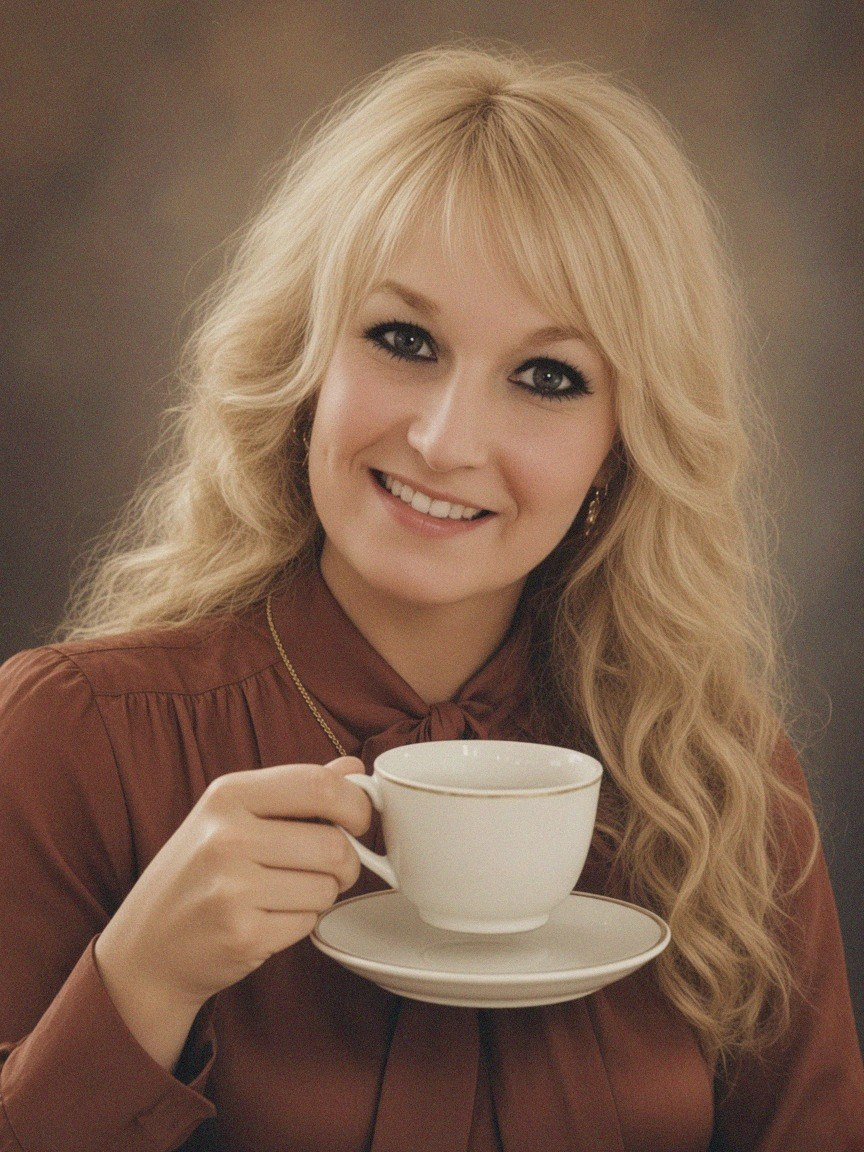
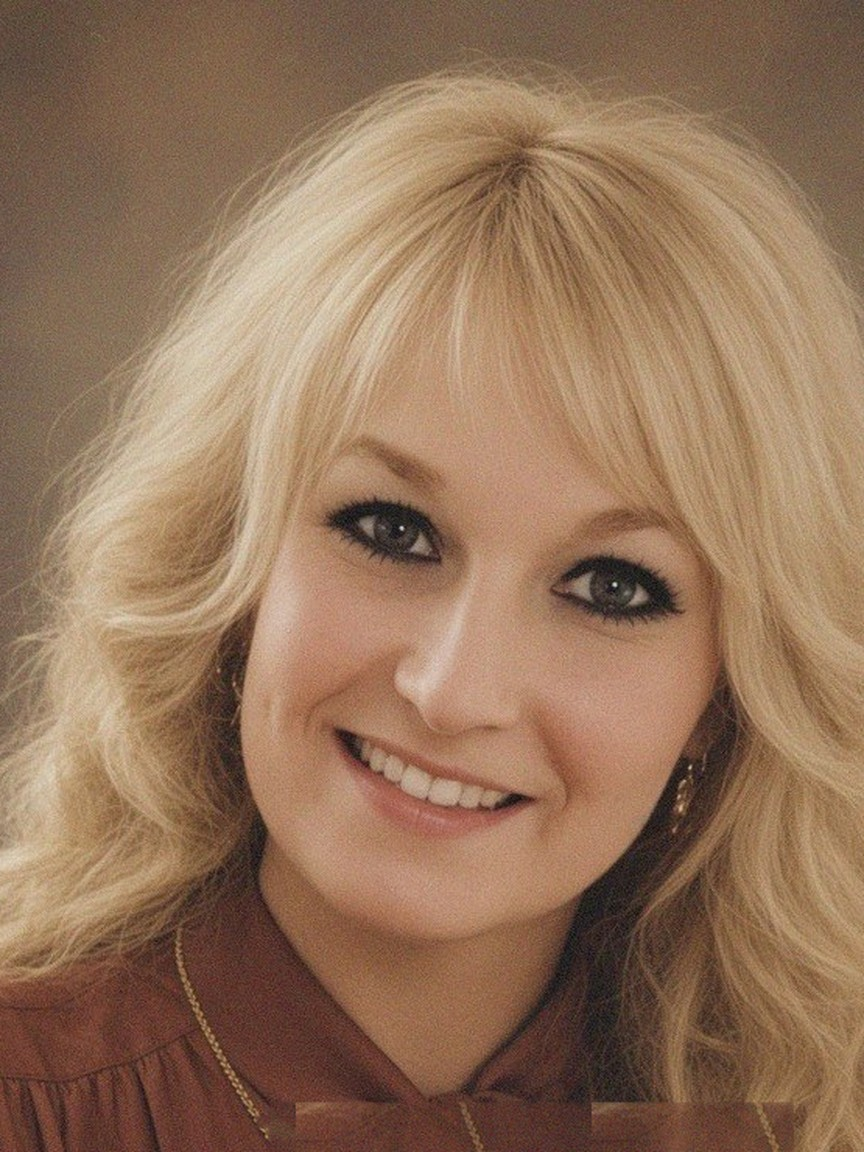
Preview: remove the teacup from Miek van Tiffany's portrait, and mark her unfireable.
The published headshot is a tighter crop of the original (identity lock on face, hair, blouse, necklace and smile). The cup and saucer are out of frame. The previous portrait is kept as v1. She is protected in staff.json and the hiring scripts, and must never be fired, rotated, or shown smoking.

diff --git a/preview-wy4u7thzbj5o/team/index.html b/preview-wy4u7thzbj5o/team/index.html
@@ -65,7 +65,7 @@
     </figure>
 
     <figure class="person" id="miek-van-tiffany">
-      <picture><source srcset="img/hires/miek-van-tiffany.webp" type="image/webp"><img src="img/hires/miek-van-tiffany.jpg" width="864" height="1152" alt="Studio portrait of Miek van Tiffany, Master Stylist: long blonde feathered hair and bangs, a rust pussy-bow blouse, a gold necklace, holding a white teacup and saucer, a bright smile"></picture>
+      <picture><source srcset="img/hires/miek-van-tiffany.webp?v=2" type="image/webp"><img src="img/hires/miek-van-tiffany.jpg?v=2" width="864" height="1152" alt="Studio portrait of Miek van Tiffany, Master Stylist: long blonde feathered hair and bangs, a rust pussy-bow blouse, a gold necklace, a bright smile"></picture>
       <h3>Miek van Tiffany</h3>
       <p class="role">Master Stylist</p>
       <p>The glue of the company, always on top of things. Optimistic about everything, including Mondays — an outlook out of this world.<br>We mean to keep her as long as the stars allow. A massive Beatles fan and music historian.</p>

diff --git a/scripts/add_hire.py b/scripts/add_hire.py
@@ -13,7 +13,9 @@ Usage:
     [--fire-reason 'custom reason if a desk must be freed']
 
 If all junior desks (staff.json maxFriendDesks, default 5) are occupied, the
-longest-serving friend hire is moved to former.json before the new one is seated.
+longest-serving non-protected friend hire is moved to former.json before the new
+one is seated. Protected staff (see staff.json and is_protected()) are never
+fired; if every seated junior is protected, the script exits without seating.
 The filled opening is removed from openings.json. If that would leave none open,
 a new unused title from the pool is posted, so one to three desks stay advertised.
 """
@@ -27,6 +29,7 @@ from sms_hiring import (
     DATA,
     FIRE_REASONS,
     HIRES_DIR,
+    is_protected,
     load_json,
     save_json,
     slugify,
@@ -57,7 +60,16 @@ def main():
 
     fired = None
     if len(hires) >= cap:
-        oldest = min(hires, key=lambda h: h.get("hiredAt") or "9999")
+        candidates = [h for h in hires if not is_protected(h, staff)]
+        if not candidates:
+            sys.exit(
+                "Junior desks are full, and every seated hire is protected "
+                "(unfireable). Refusing to fire a protected member of staff, "
+                "including Miek van Tiffany."
+            )
+        oldest = min(candidates, key=lambda h: h.get("hiredAt") or "9999")
+        if is_protected(oldest, staff):
+            sys.exit("Refusing to fire a protected member of staff, including Miek van Tiffany.")
         hires.remove(oldest)
         reason = args.fire_reason.strip() or FIRE_REASONS[len(former.get("employees") or []) % len(FIRE_REASONS)]
         record = {

diff --git a/scripts/sms_hiring.py b/scripts/sms_hiring.py
@@ -161,6 +161,54 @@ def slugify(name: str) -> str:
     return text or "hire"
 
 
+# Always-on fallback: Miek van Tiffany can never be fired, even if the
+# protected list in staff.json is missing or stale.
+ALWAYS_PROTECTED = frozenset({
+    "miek-van-tiffany",
+    "miek van tiffany",
+})
+
+
+def _protected_keys(staff: dict | None) -> set[str]:
+    keys = set(ALWAYS_PROTECTED)
+    if not staff:
+        return keys
+    for item in staff.get("protected") or []:
+        raw_id = raw_name = ""
+        if isinstance(item, str):
+            raw_name = item
+        elif isinstance(item, dict):
+            raw_id = str(item.get("id") or "").strip()
+            raw_name = str(item.get("name") or "").strip()
+        for raw in (raw_id, raw_name):
+            if not raw:
+                continue
+            keys.add(raw.lower())
+            keys.add(slugify(raw))
+    keys.discard("")
+    keys.discard("hire")
+    return keys
+
+
+def is_protected(hire: dict | None, staff: dict | None = None) -> bool:
+    """True if this hire must never be fired or moved to former.json."""
+    if not hire:
+        return False
+    keys = _protected_keys(staff)
+    candidates: set[str] = set()
+    for raw in (hire.get("id"), hire.get("name")):
+        if not raw:
+            continue
+        raw = str(raw).strip()
+        if not raw:
+            continue
+        candidates.add(raw.lower())
+        slug = slugify(raw)
+        if slug != "hire":
+            candidates.add(slug)
+    return bool(candidates & keys)
+
+
 def tweak_surname(surname: str) -> str:
     if not surname:
         return surname

diff --git a/HIRING.md b/HIRING.md
@@ -8,14 +8,22 @@ The fourteen permanent staff on The Team are not managed here. They live in `pre
 
 - **Letterhead:** 14 permanent staff (plus Frank the company cat).
 - **Junior desks:** 5 friend hires, listed in `preview-wy4u7thzbj5o/data/staff.json` (`maxFriendDesks`).
-- When all five junior desks are occupied, the **longest-serving friend hire** (earliest `hiredAt`) is moved to `preview-wy4u7thzbj5o/data/former.json` with a deadpan reason, and the new hire takes the desk.
+- When all five junior desks are occupied, the **longest-serving non-protected friend hire** (earliest `hiredAt`) is moved to `preview-wy4u7thzbj5o/data/former.json` with a deadpan reason, and the new hire takes the desk. If every seated junior is protected, `add_hire.py` refuses rather than firing them or writing them to `former.json`.
+
+## Protected / unfireable staff
+
+Miek van Tiffany is unfireable. She is listed in `staff.json` under `protected` (`id`: `miek-van-tiffany`). `scripts/sms_hiring.py` exposes `is_protected()`, and `scripts/add_hire.py` will only fire the oldest hire who is not protected. Miek is also hard-coded as a fallback in `ALWAYS_PROTECTED`, so she stays protected even if the JSON key is missing or stale.
+
+She sits on the letterhead (`team/index.html`), so she is already outside the junior firing rotation. The protection still applies if she is ever re-added to `hires`. She must never be moved to `former.json`, auto-refilled, or rotated out of a desk. No hiring script may invent a firing reason for her.
+
+Do not show her smoking in any image.
 
 ## Data
 
 | File | Role |
 |---|---|
 | `preview-wy4u7thzbj5o/data/openings.json` | `pool` of titles, `reserved` titles already held on the letterhead, and `open` (the 1–3 jobs currently advertised). |
-| `preview-wy4u7thzbj5o/data/staff.json` | Friend hires only. |
+| `preview-wy4u7thzbj5o/data/staff.json` | Friend hires only, plus the `protected` list of unfireable staff. |
 | `preview-wy4u7thzbj5o/data/former.json` | Former friend hires, with the reason they left. |
 | `data/processed-applications.json` | Gmail message IDs already handled. The daily routine skips these. |
 
@@ -117,7 +125,7 @@ Run this once a day, in this order. Low compute: no need to re-generate portrait
      --email bob@example.com
    ```
 
-   This script: exports `864×1152` `.jpg` + `.webp` into `team/img/hires/`; appends the hire to `staff.json`; if the five junior desks are full, moves the longest-serving friend hire to `former.json` with a deadpan reason (override with `--fire-reason`); removes the filled title from `openings.json`; and, if that would leave none open, posts a new unused title from the pool so that **1–3 jobs stay advertised**.
+   This script: exports `864×1152` `.jpg` + `.webp` into `team/img/hires/`; appends the hire to `staff.json`; if the five junior desks are full, moves the longest-serving non-protected friend hire to `former.json` with a deadpan reason (override with `--fire-reason`); refuses if every seated junior is protected; removes the filled title from `openings.json`; and, if that would leave none open, posts a new unused title from the pool so that **1–3 jobs stay advertised**.
 
 8. **Commit and push**, as `hatlem72-creator`, only the preview data, portraits, and (if touched) openings. Do not change the public root `index.html` (it stays “Coming soon”). A suitable message: `Preview: seat {name} at the {position} desk.`
 
@@ -145,7 +153,7 @@ All commands are run from the repo root (`/workspace/ace-site` in this workspace
 |---|---|
 | `scripts/choose_winner.py <file> [--pretty]` | Read a batch of applicants and print the winner plus the score table. Exit 2 if nobody qualifies. |
 | `scripts/invent_name.py --name NAME [--position TITLE] [--hobbies …] [--interests …]` | Print a funny desk name. |
-| `scripts/add_hire.py --name NAME --position TITLE --bio TEXT --image PATH [--real-name NAME] [--email EMAIL] [--hired-at YYYY-MM-DD] [--fire-reason TEXT]` | Seat the hire, export portraits, rotate openings, and fire the longest-serving friend hire if the junior desks are full. |
+| `scripts/add_hire.py --name NAME --position TITLE --bio TEXT --image PATH [--real-name NAME] [--email EMAIL] [--hired-at YYYY-MM-DD] [--fire-reason TEXT]` | Seat the hire, export portraits, rotate openings, and fire the longest-serving non-protected friend hire if the junior desks are full. Never fires protected staff (including Miek van Tiffany). |
 | `scripts/sms_hiring.py` | Library used by the three commands above. Not a CLI. |
 
 The routine should call these rather than editing the JSON by hand.
